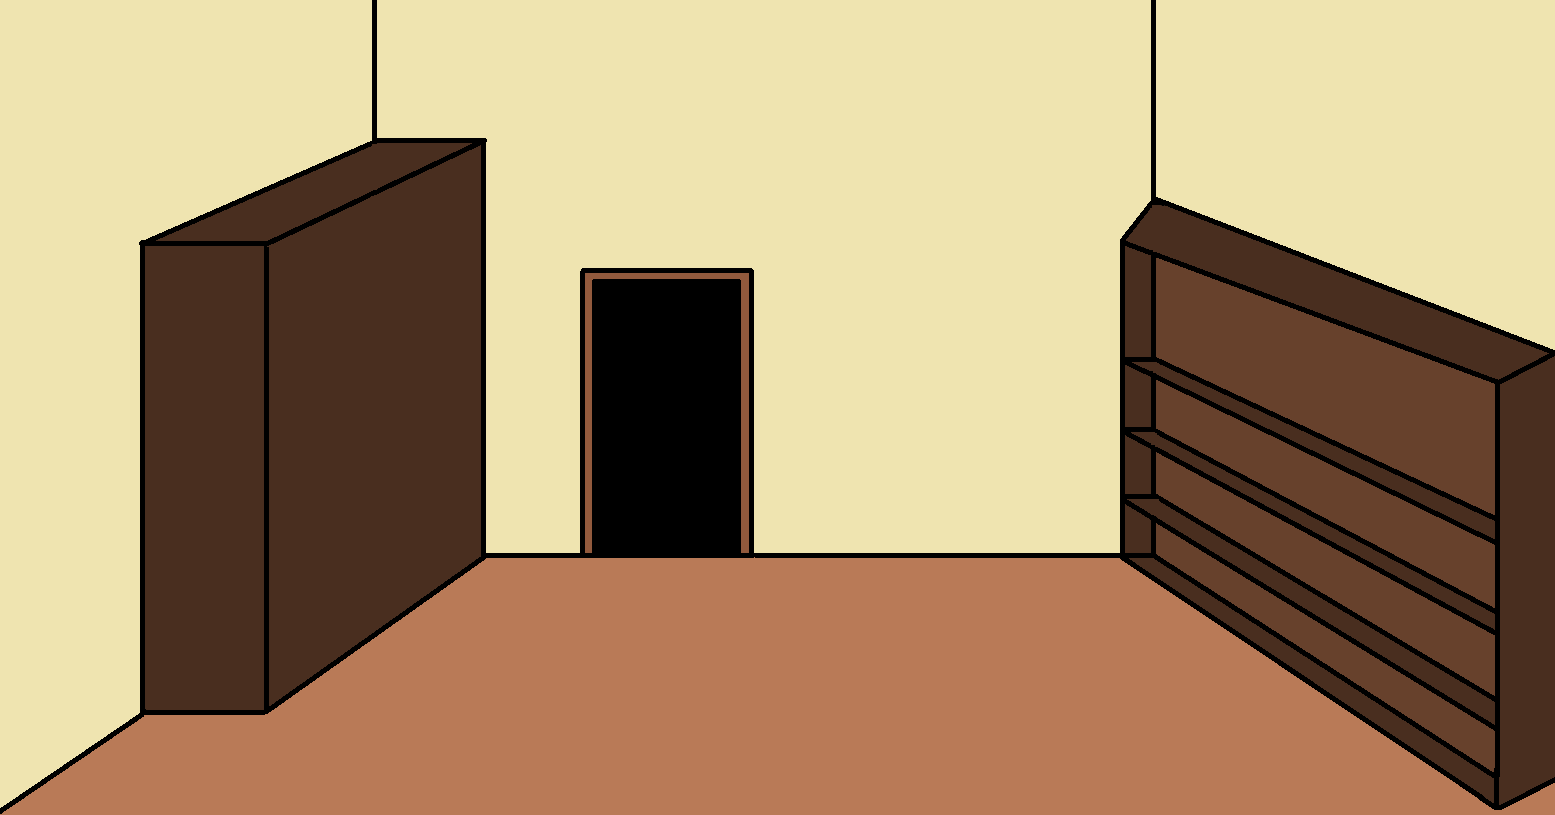
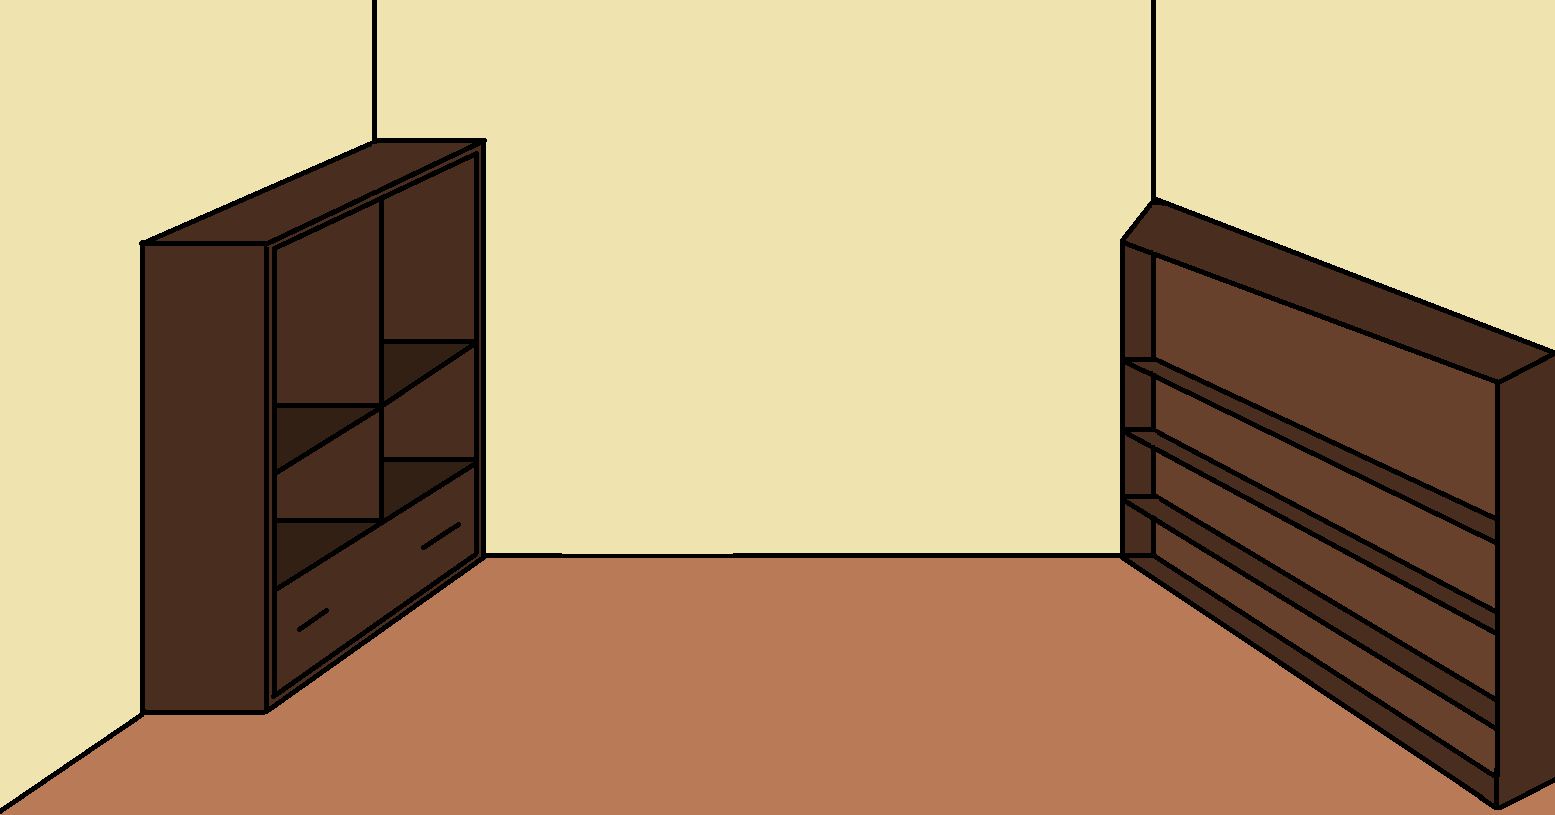
k

diff --git a/harjoitus/harjoitus/View/huone1.xaml b/harjoitus/harjoitus/View/huone1.xaml
@@ -8,17 +8,46 @@
         Title="huone1" Height="600" Width="1000">
     <Grid>
         <StackPanel>
-            <StackPanel Background="#FFF7CC6D" Orientation="Horizontal">
+            <StackPanel Background="#FFF6F6F6" Orientation="Horizontal">
                 <Button x:Name="menuButton" Content="Menu" HorizontalAlignment="Left" Height="51" Width="144"/>
-                <Label x:Name="lbl" Width="754"></Label>
+                <TextBlock x:Name="message" Width="627" />
+                <Canvas Width="128">
+                    <Image Source="pack://application:,,,/Resources/KeyNotFound.png" Canvas.Left="0" Canvas.Top="3" Height="48" Width="47"/>
+                    <Image Source="pack://application:,,,/Resources/KeyNotFound.png" Canvas.Left="40" Canvas.Top="3" Height="48" Width="47"/>
+                    <Image Source="pack://application:,,,/Resources/KeyNotFound.png" Canvas.Left="80" Canvas.Top="3" Height="48" Width="47"/>
+                    <Image Name="menuKey1" Source="pack://application:,,,/Resources/KeyFound.png" Canvas.Left="0" Canvas.Top="3" Height="48" Width="47" Visibility="Hidden"/>
+                    <Image Name="menuKey2" Source="pack://application:,,,/Resources/KeyFound.png" Canvas.Left="40" Canvas.Top="3" Height="48" Width="47" Visibility="Hidden"/>
+                    <Image Name="menuKey3" Source="pack://application:,,,/Resources/KeyFound.png" Canvas.Left="80" Canvas.Top="3" Height="48" Width="47" Visibility="Hidden"/>
+                </Canvas>
                 <Button x:Name="helpButton" Content="?" Width="97"/>
             </StackPanel>
             <Canvas>
                 <Image Source="pack://application:,,,/Resources/1.png" Width="997" Height="521" Canvas.Top="3"/>
-                <Image Source="pack://application:,,,/Resources/table.png" Width="266" Height="189" Canvas.Top="305" Canvas.Left="482"/>
-                <Button Name="aButton" Click="OnImageButtonClick" Canvas.Left="556" Canvas.Top="310" Background="{x:Null}" BorderBrush="{x:Null}" Foreground="{x:Null}" Cursor="Hand" Width="76">
-                    <Image Source="pack://application:,,,/Resources/key.png" Visibility="{Binding Path=IsVisible}" Width="68" Height="41"></Image>
+                <Image Source="pack://application:,,,/Resources/table.png" Width="266" Height="189" Canvas.Top="305" Canvas.Left="550"/>
+                <Button Name="key1" Click="OnButton1Click" Canvas.Left="630" Canvas.Top="310" Background="{x:Null}" BorderBrush="{x:Null}" Foreground="{x:Null}" Cursor="Hand" Width="61" Height="36">
+                    <Image Source="pack://application:,,,/Resources/key.png" Width="51" Height="36"></Image>
                 </Button>
+                <Button Name="key2" Click="OnButton2Click" Canvas.Left="170" Canvas.Top="244" Background="{x:Null}" BorderBrush="{x:Null}" Foreground="{x:Null}" Cursor="Hand" Width="56" RenderTransformOrigin="0.5,0.5" Height="36">
+                    <Button.RenderTransform>
+                        <TransformGroup>
+                            <ScaleTransform/>
+                            <SkewTransform/>
+                            <RotateTransform Angle="-35.432"/>
+                            <TranslateTransform/>
+                        </TransformGroup>
+                    </Button.RenderTransform>
+                    <Image Source="pack://application:,,,/Resources/key.png" Width="46" Height="36"></Image>
+                </Button>
+                <Button Name="key3" Click="OnButton3Click" Canvas.Left="756" Canvas.Top="235" Background="{x:Null}" BorderBrush="{x:Null}" Foreground="{x:Null}" Cursor="Hand" Width="49" Height="30">
+                    <Image Source="pack://application:,,,/Resources/key.png" Width="49" Height="31"></Image>
+                </Button>
+                <Button Name="door2" Click="OnDoor2Click" Canvas.Left="320" Canvas.Top="99" Background="{x:Null}" BorderBrush="{x:Null}" Foreground="{x:Null}" Cursor="Hand" Visibility="Hidden">
+                    <Image Source="pack://application:,,,/Resources/doorinside.png" Height="280"></Image>
+                </Button>
+                <Button Name="door1" Click="OnDoor1Click" Canvas.Left="400" Canvas.Top="108" Background="{x:Null}" BorderBrush="{x:Null}" Foreground="{x:Null}" Cursor="Hand" >
+                    <Image Source="pack://application:,,,/Resources/door.png" Height="259" Width="158"></Image>
+                </Button>
+                <Button Name="closetdoor1" Click="OnDoor1Click" Canvas.Left="200" Canvas.Top="85" Background="{x:Null}" BorderBrush="{x:Null}" Foreground="{x:Null}" Cursor="Hand" Height="257" />
             </Canvas>
         </StackPanel>
     </Grid>

diff --git a/harjoitus/harjoitus/View/huone2.xaml b/harjoitus/harjoitus/View/huone2.xaml
@@ -1,0 +1,12 @@
+<Window x:Class="harjoitus.View.huone2"
+        xmlns="http://schemas.microsoft.com/winfx/2006/xaml/presentation"
+        xmlns:x="http://schemas.microsoft.com/winfx/2006/xaml"
+        xmlns:d="http://schemas.microsoft.com/expression/blend/2008"
+        xmlns:mc="http://schemas.openxmlformats.org/markup-compatibility/2006"
+        xmlns:local="clr-namespace:harjoitus.View"
+        mc:Ignorable="d"
+        Title="huone2" Height="300" Width="300">
+    <Grid>
+        
+    </Grid>
+</Window>

diff --git a/harjoitus/harjoitus/View/huone1.xaml.cs b/harjoitus/harjoitus/View/huone1.xaml.cs
@@ -21,17 +21,91 @@ namespace harjoitus.View
     /// </summary>
     public partial class huone1 : Window
     {
-        Esine esine1 = new Esine("table", "pack://application:,,,/Resources/table.png", false);
-        //harjoitus.ViewModel.MainViewModel svmo = new harjoitus.ViewModel.MainViewModel();
+        Huone huone = new Huone();
+        Avain avain1 = new Avain(1, false);
+        Avain avain2 = new Avain(2, false);
+        Avain avain3 = new Avain(3, false);
+        public int numero = 0;
         public huone1()
         {
             InitializeComponent();
-            this.DataContext = new MainViewModel();
+            IniMyStuff();
+            this.DataContext = new MainViewModel();    
+        }
+        // adding to list keys
+        private void IniMyStuff()
+        {
+            huone.Avaimet.Add(avain1);
+            huone.Avaimet.Add(avain2);
+            huone.Avaimet.Add(avain3);
+        }
+        // Key's work
+        private void OnButton1Click(object sender, RoutedEventArgs e)
+        {
+            avain1.Disappearing(key1);
+            avain1.IsFound = true;
+            numero++;
+            MenuAvaimet();
+        }
+        private void OnButton2Click(object sender, RoutedEventArgs e)
+        {
+            avain2.Disappearing(key2);
+            avain2.IsFound = true;
+            numero++;
+            MenuAvaimet();
+        }
+        private void OnButton3Click(object sender, RoutedEventArgs e)
+        {
+            avain3.Disappearing(key3);
+            avain3.IsFound = true;
+            numero++;
+            MenuAvaimet();
         }
 
-        private void OnImageButtonClick(object sender, RoutedEventArgs e)
+        // door's work
+        private void OnDoor1Click(object sender, RoutedEventArgs e)
         {
-            esine1.Move(aButton);
+            foreach (var a in huone.Avaimet)
+            {
+                if (a.IsFound == false)
+                {
+                    message.Text = "Not enough keys!";
+                    break;
+                }
+                else
+                {
+                    door1.Visibility = Visibility.Hidden;
+                    door2.Visibility = Visibility.Visible;
+                }
+            }
+        }
+
+        private void OnDoor2Click(object sender, RoutedEventArgs e)
+        {
+            
+            huone2 h = new harjoitus.View.huone2();
+            this.Close();
+            h.ShowDialog();
+
+        }
+
+        // Menu key's work
+        private void MenuAvaimet()
+        {
+            switch (numero)
+            {
+                case 1:
+                    menuKey1.Visibility = Visibility.Visible;
+                    break;
+                case 2:
+                    menuKey2.Visibility = Visibility.Visible;
+                    break;
+                case 3:
+                    menuKey3.Visibility = Visibility.Visible;
+                    break;
+                default:
+                    break;
+            }
         }
     }
 }

diff --git a/harjoitus/harjoitus/Model/harjoitus.cs b/harjoitus/harjoitus/Model/harjoitus.cs
@@ -12,13 +12,12 @@ namespace harjoitus.Model
     {
         public string Name { get; set; }
         public string Image { get; set; }
-        public Huone(string name, string image)
+        public List<Avain> Avaimet { get; set; }
+        public Huone()
         {
-            Name = name;
-            Image = image;
+            Avaimet = new List<Avain>();
         }
         //public int HuoneNumero { get; set; }
-        public List<Esine> Esineet { get; set; }
         public int AvaidenMaara { get; set; }
     }
 
@@ -26,24 +25,27 @@ namespace harjoitus.Model
     {
         public string Name { get; set; }
         public string Image { get; set; }
-        public bool IsVisible { get; set; }
-        public Esine(string name, string image, bool isvisible)
+        /*public Esine(string name, string image)
         {
             Name = name;
             Image = image;
-            IsVisible = IsVisible;
-        }
-        public void Move(Button mybutton)
-        {
-            //Button button = (Button)mybutton;
-            mybutton.Visibility  = Visibility.Hidden;
-        }
+        }*/
+        
     }
 
     public class Avain
     {
-        public int AvainNumero { get; set; }
-        public bool OnkoLöyty { get; set; }
+        public int KeyNumber { get; set; }
+        public bool IsFound { get; set; }
+        public Avain(int keynumber, bool isfound)
+        {
+            KeyNumber = keynumber;
+            IsFound = isfound;
+        }
+        public void Disappearing(Button myButton)
+        {
+            myButton.Visibility = Visibility.Hidden;
+        }
     }
 }
 

diff --git a/harjoitus/harjoitus/ViewModel/MainViewModel.cs b/harjoitus/harjoitus/ViewModel/MainViewModel.cs
@@ -16,16 +16,10 @@ namespace harjoitus.ViewModel
         /// </summary>
         public MainViewModel()
         {
-            opettajanhuone = new Huone("Huone 1", "pack://application:,,,/Resources/1.png");
-            esine1 = new Esine("table", "pack://application:,,,/Resources/table.png", false);
+            //opettajanhuone = new Huone("Huone 1", "pack://application:,,,/Resources/1.png");
+            //esine1 = new Esine("table", "pack://application:,,,/Resources/table.png");
             //{Binding opettajanhuone.Image, Mode=OneWay}
             //huone1.Esineet.Add(esine1);           
         }
-        public Huone opettajanhuone { get; set; }
-        public Huone luokka { get; set; }
-        public Huone ruokailu { get; set; }
-        public Huone baari { get; set; }
-        public Huone koti { get; set; }
-        public Esine esine1 { get; set; }
     }
 }

diff --git a/harjoitus/harjoitus/View/huone2.xaml.cs b/harjoitus/harjoitus/View/huone2.xaml.cs
@@ -1,0 +1,27 @@
+using System;
+using System.Collections.Generic;
+using System.Linq;
+using System.Text;
+using System.Threading.Tasks;
+using System.Windows;
+using System.Windows.Controls;
+using System.Windows.Data;
+using System.Windows.Documents;
+using System.Windows.Input;
+using System.Windows.Media;
+using System.Windows.Media.Imaging;
+using System.Windows.Shapes;
+
+namespace harjoitus.View
+{
+    /// <summary>
+    /// Interaction logic for huone2.xaml
+    /// </summary>
+    public partial class huone2 : Window
+    {
+        public huone2()
+        {
+            InitializeComponent();
+        }
+    }
+}
